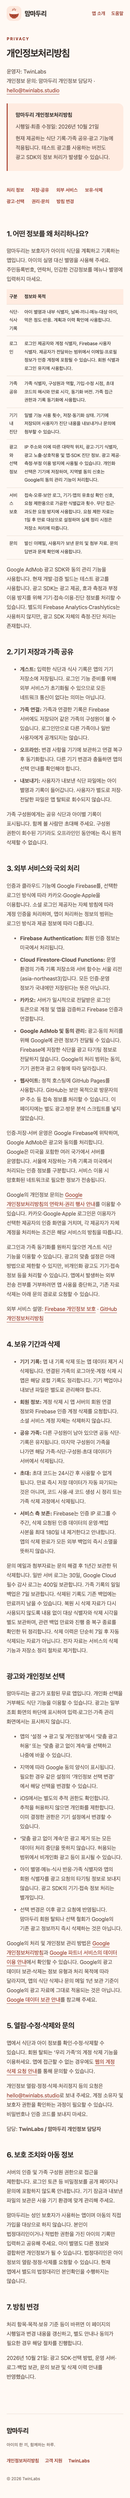
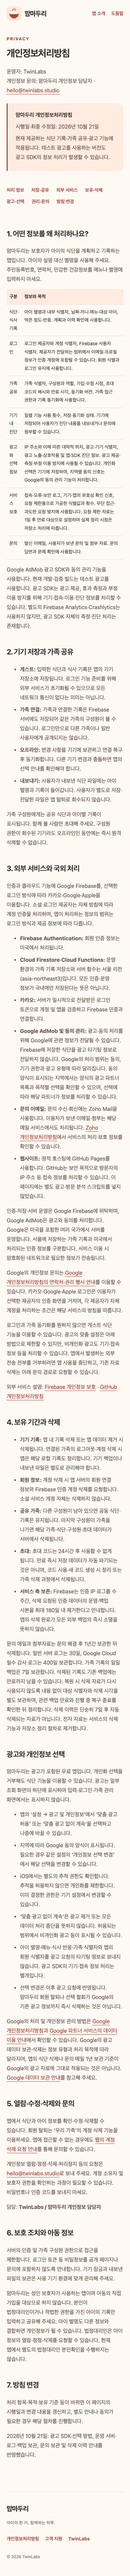
Clarify consent partners and support email processing

Changed region(s): [[0.0308, 0.0, 0.9538, 0.998]]

diff --git a/mammaduri/privacy-policy.html b/mammaduri/privacy-policy.html
@@ -171,8 +171,12 @@
             <strong>Google AdMob 및 동의 관리:</strong> 광고·동의 처리를 위해
             Google에 관련 정보가 전달될 수 있습니다. Firebase에 저장한 식단을
             광고 타기팅 정보로 전달하지 않습니다. Google의 처리 범위는 동의,
-            기기 권한과 광고 유형에 따라 달라집니다.
+            기기 권한과 광고 유형에 따라 달라집니다. 동의 양식이 표시되는 지역에서는
+            양식의 광고 파트너 목록과 목적별 선택을 확인할 수 있으며, 선택에 따라 해당 파트너가 정보를 처리할 수 있습니다.
           </li>
+          <li><strong>문의 이메일:</strong> 문의 수신·회신에는 Zoho Mail을 사용합니다.
+            이용자가 보낸 이메일·첨부는 해당 메일 서비스에서도 처리됩니다.
+            <a href="https://www.zoho.com/privacy.html">Zoho 개인정보처리방침</a>에서 서비스의 처리·보호 정보를 확인할 수 있습니다.</li>
           <li>
             <strong>웹사이트:</strong> 정적 호스팅에 GitHub Pages를 사용합니다.
             GitHub는 보안 목적으로 방문자의 IP 주소 등 접속 정보를 처리할 수
